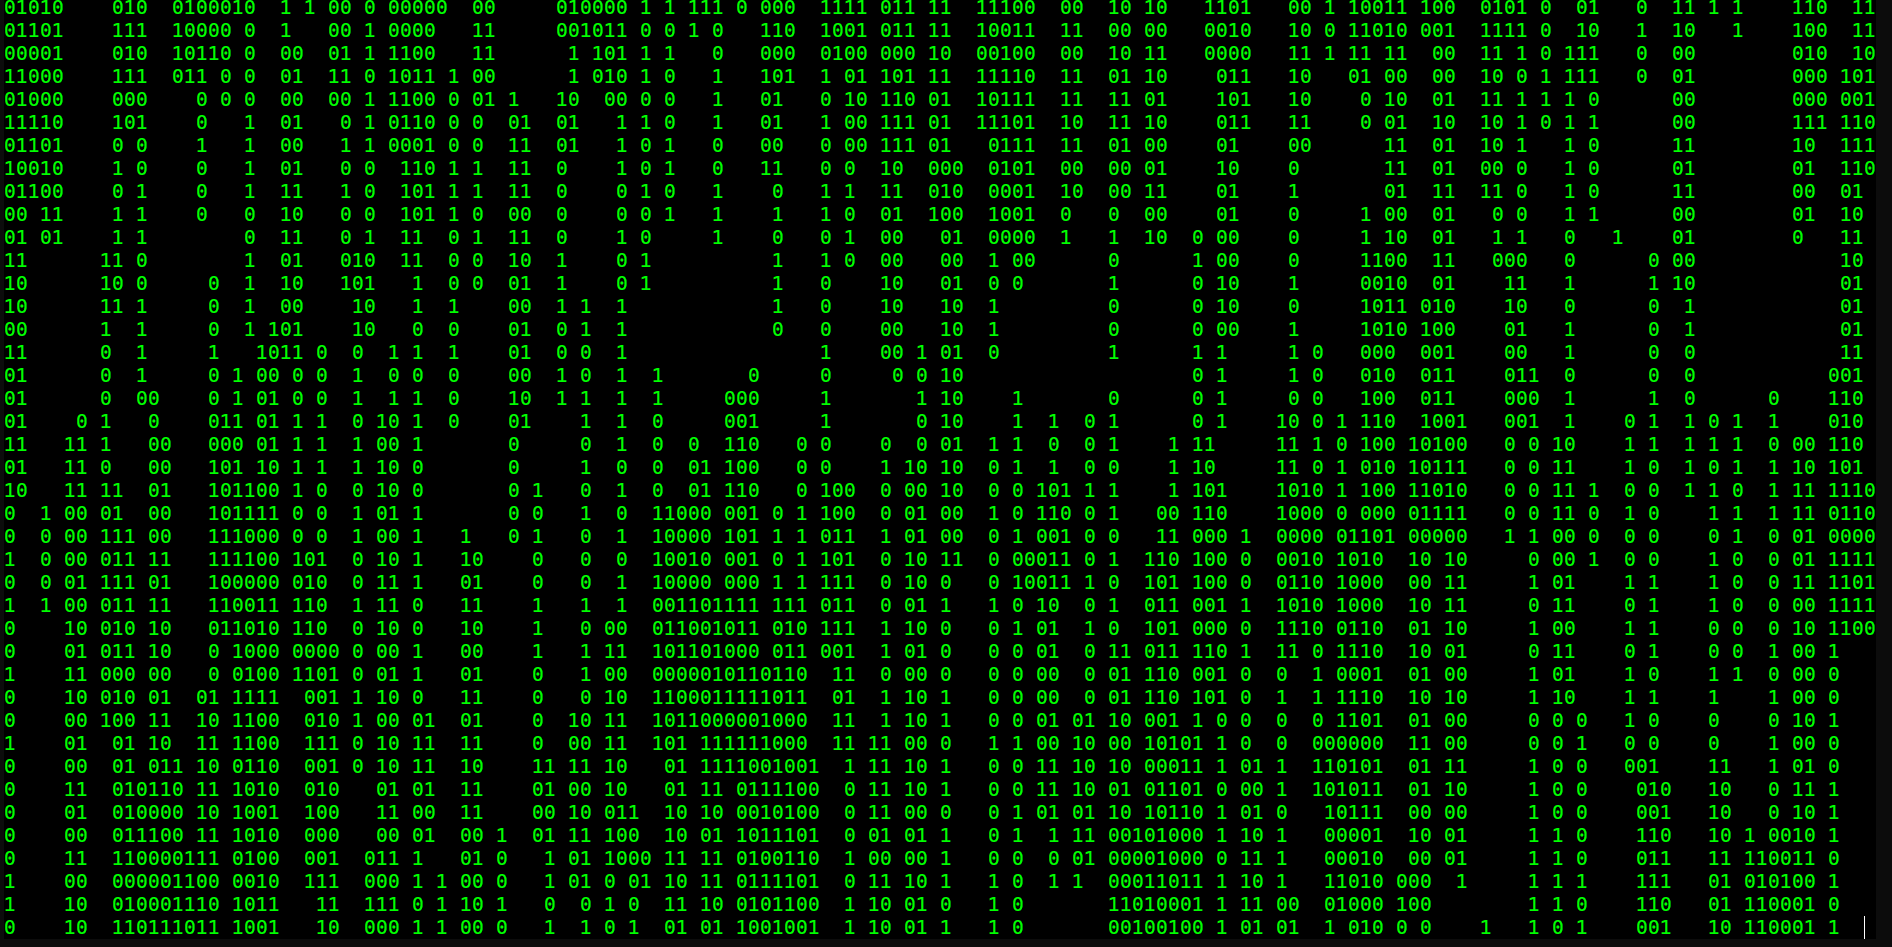
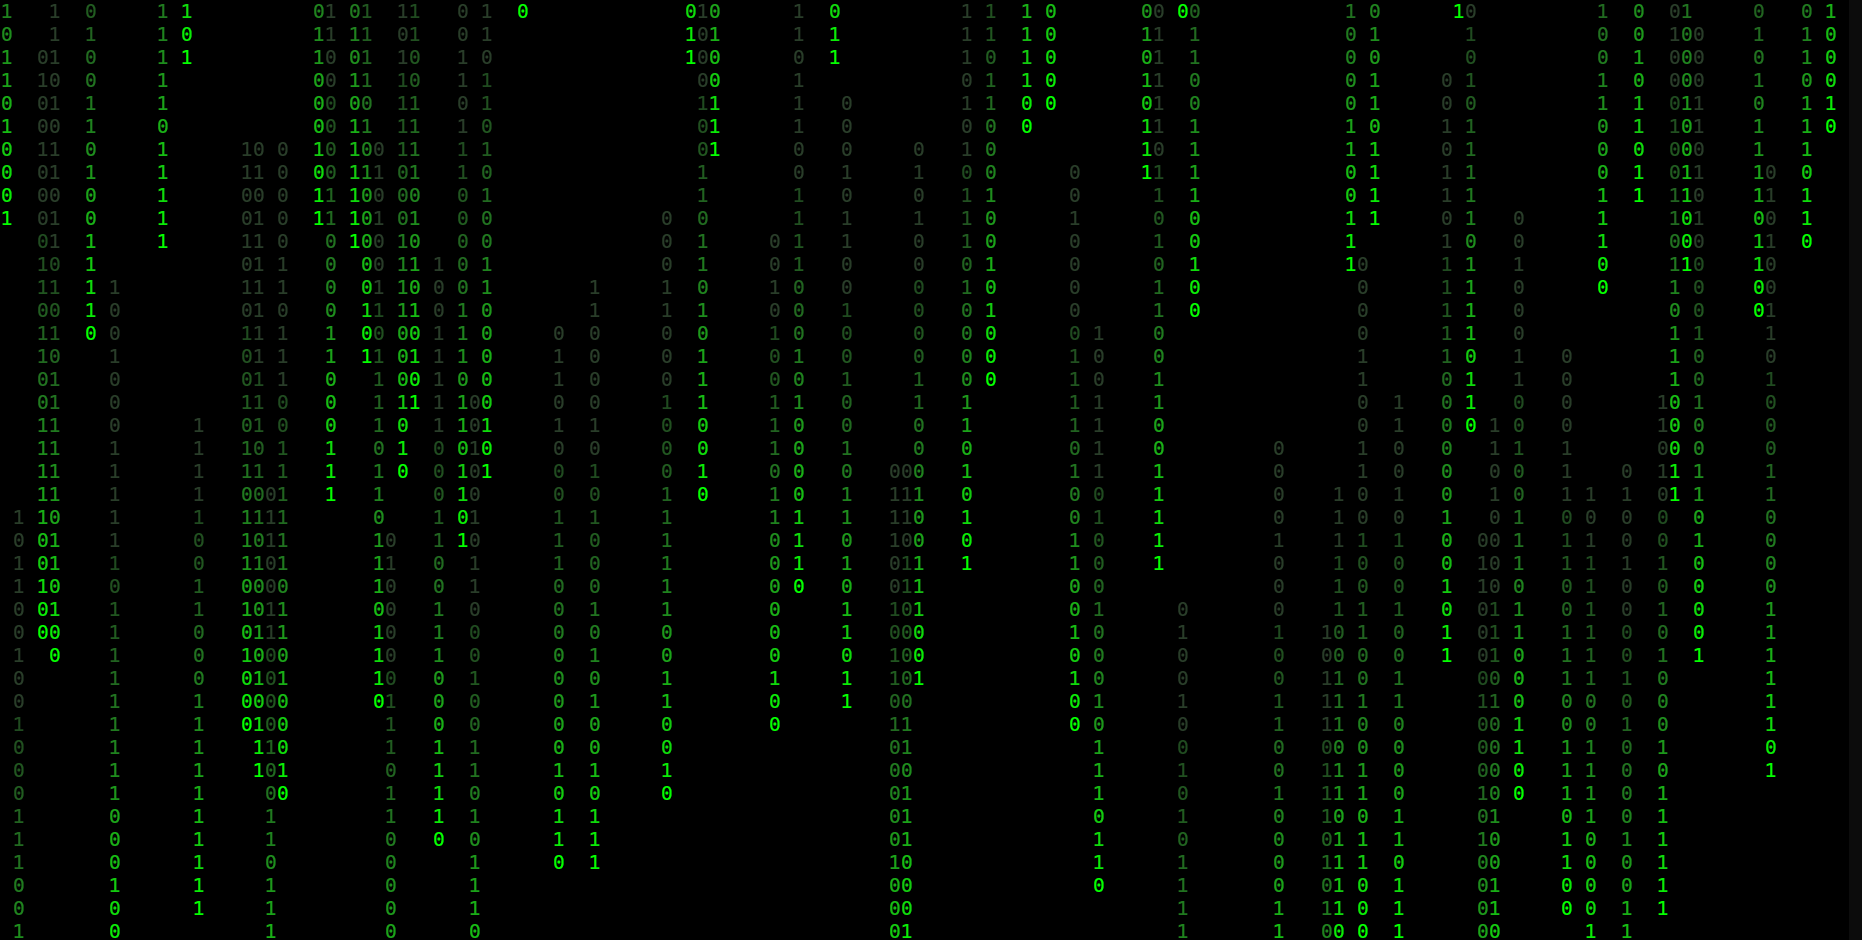
new screenshot

Changed region(s): [[0.0, 0.0, 0.9968, 1.0]]

diff --git a/src/symbol.rs b/src/symbol.rs
@@ -10,25 +10,35 @@ const CHARS: [char; 2] = ['1', '0'];
 #[derive(Clone)]
 pub struct Symbol {
     character: char,
-    color: String
+    color: String,
+    is_first: bool
 }
 
 impl Symbol {
     pub fn new(character: char, color: &str) -> Self {
         Self {
             character,
-            color: String::from(color)
+            color: String::from(color),
+            is_first: false
         }
     }
 
-    pub fn set_random_symbol_with_color(color: &str) -> Self {
+    // pub fn set_white_symbol() -> Self {
+    //     Self {
+    //         character: get_random_char(),
+    //         color: String::from("#FFFFFF"),
+    //     }
+    // }
+
+    pub fn set_first_symbol(color: &str) -> Self {
         Self {
             character: get_random_char(),
             color: String::from(color),
+            is_first: true
         }
     }
 
-    pub fn set_random_symbol_without_color(&mut self) -> () {
+    pub fn set_random_symbols(&mut self) -> () {
             self.character = get_random_char()
     }
 
@@ -39,7 +49,8 @@ impl Symbol {
     pub fn set_empty() -> Self {
         Self {
             character: ' ',
-            color: String::from("#000000")
+            color: String::from("#000000"),
+            is_first: false
         }
     }
 

diff --git a/src/column.rs b/src/column.rs
@@ -35,11 +35,11 @@ impl Column {
         }
 
         let random_index = rand::rng().random_range(0..self.width);
-        let rand_distance: usize = rand::rng().random_range(self.length/2..self.length) as usize;
+        let rand_distance: usize = rand::rng().random_range(self.length - 20..self.length) as usize;
 
         for i in 0..self.characters.len() {
             if !self.characters[i].is_empty() {
-                self.characters[i].set_random_symbol_without_color();
+                self.characters[i].set_random_symbols();
             }
         }
 
@@ -53,7 +53,7 @@ impl Column {
         }
 
         if self.vector_start_index < self.characters.len() {
-            self.characters[self.vector_start_index] = Symbol::set_random_symbol_with_color(&self.character_color);
+            self.characters[self.vector_start_index] = Symbol::set_first_symbol(&self.character_color);
             self.vector_start_index = (self.vector_start_index + 1) % self.characters.len();
         }
     }

diff --git a/src/main.rs b/src/main.rs
@@ -19,11 +19,13 @@ fn main() -> Result<()> {
 
     let mut matrix = Matrix::new(width, height, character_color, background_color);
 
+    let frame_speed = (1000f64 / 10 as f64).round() as u64;
+
     loop{
         matrix.init(&mut stdout).context("Initialize matrix")?;
         matrix.update();
 
-        sleep(Duration::from_millis(100));
+        sleep(Duration::from_millis(frame_speed));
     }
 }
 
